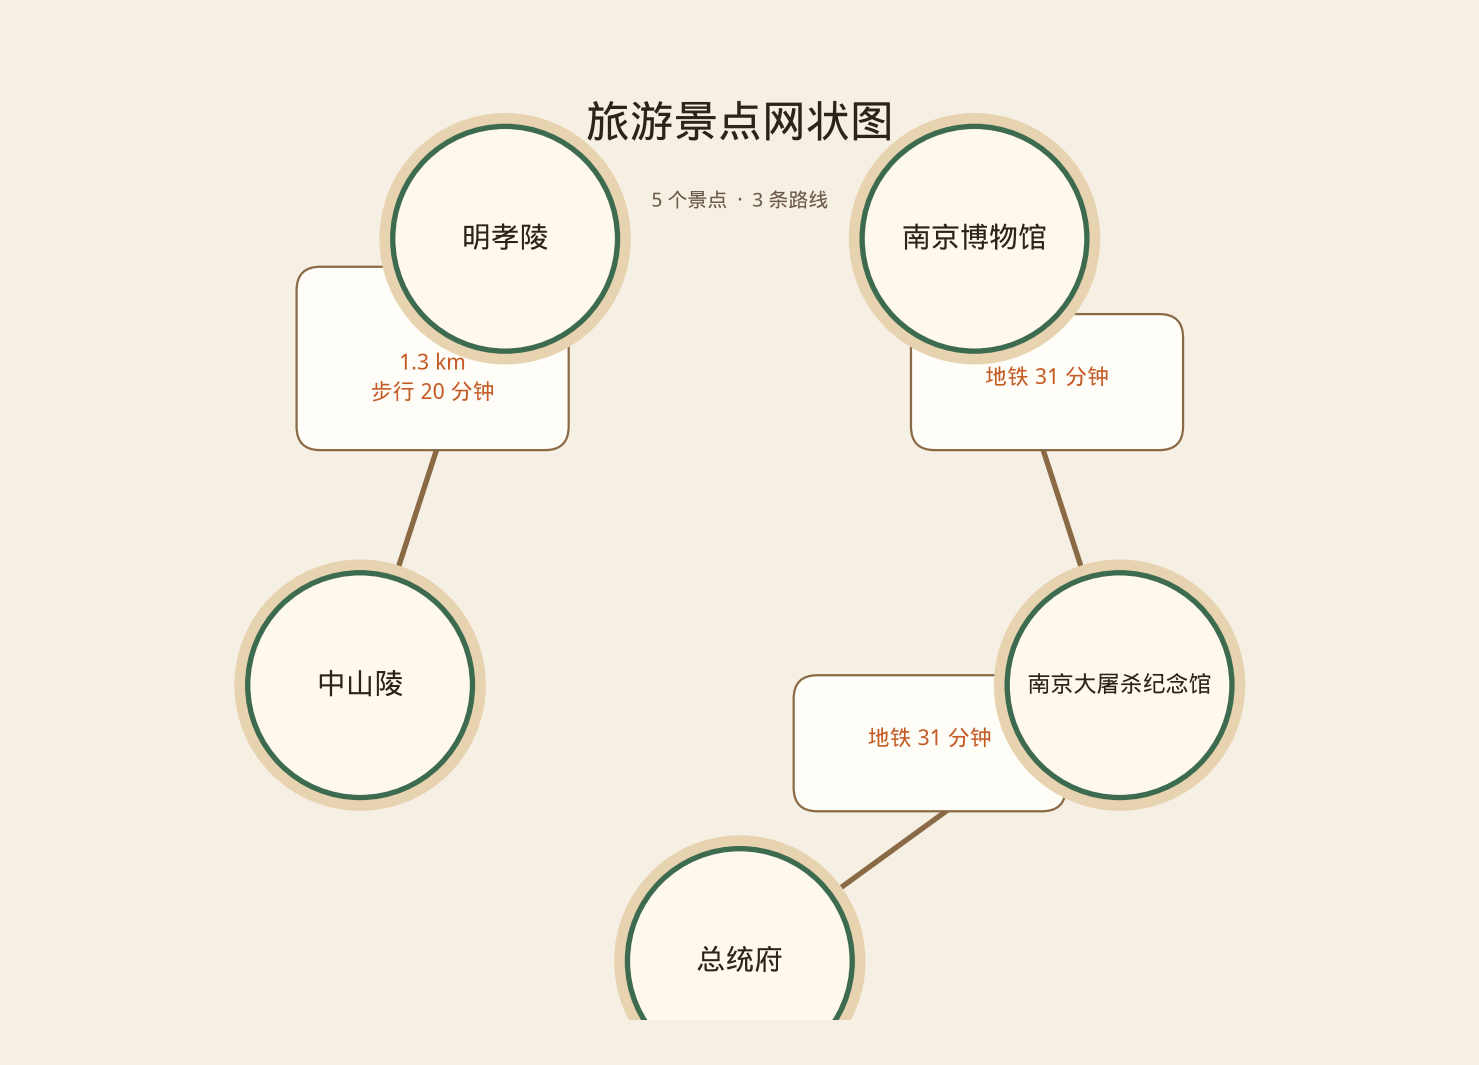
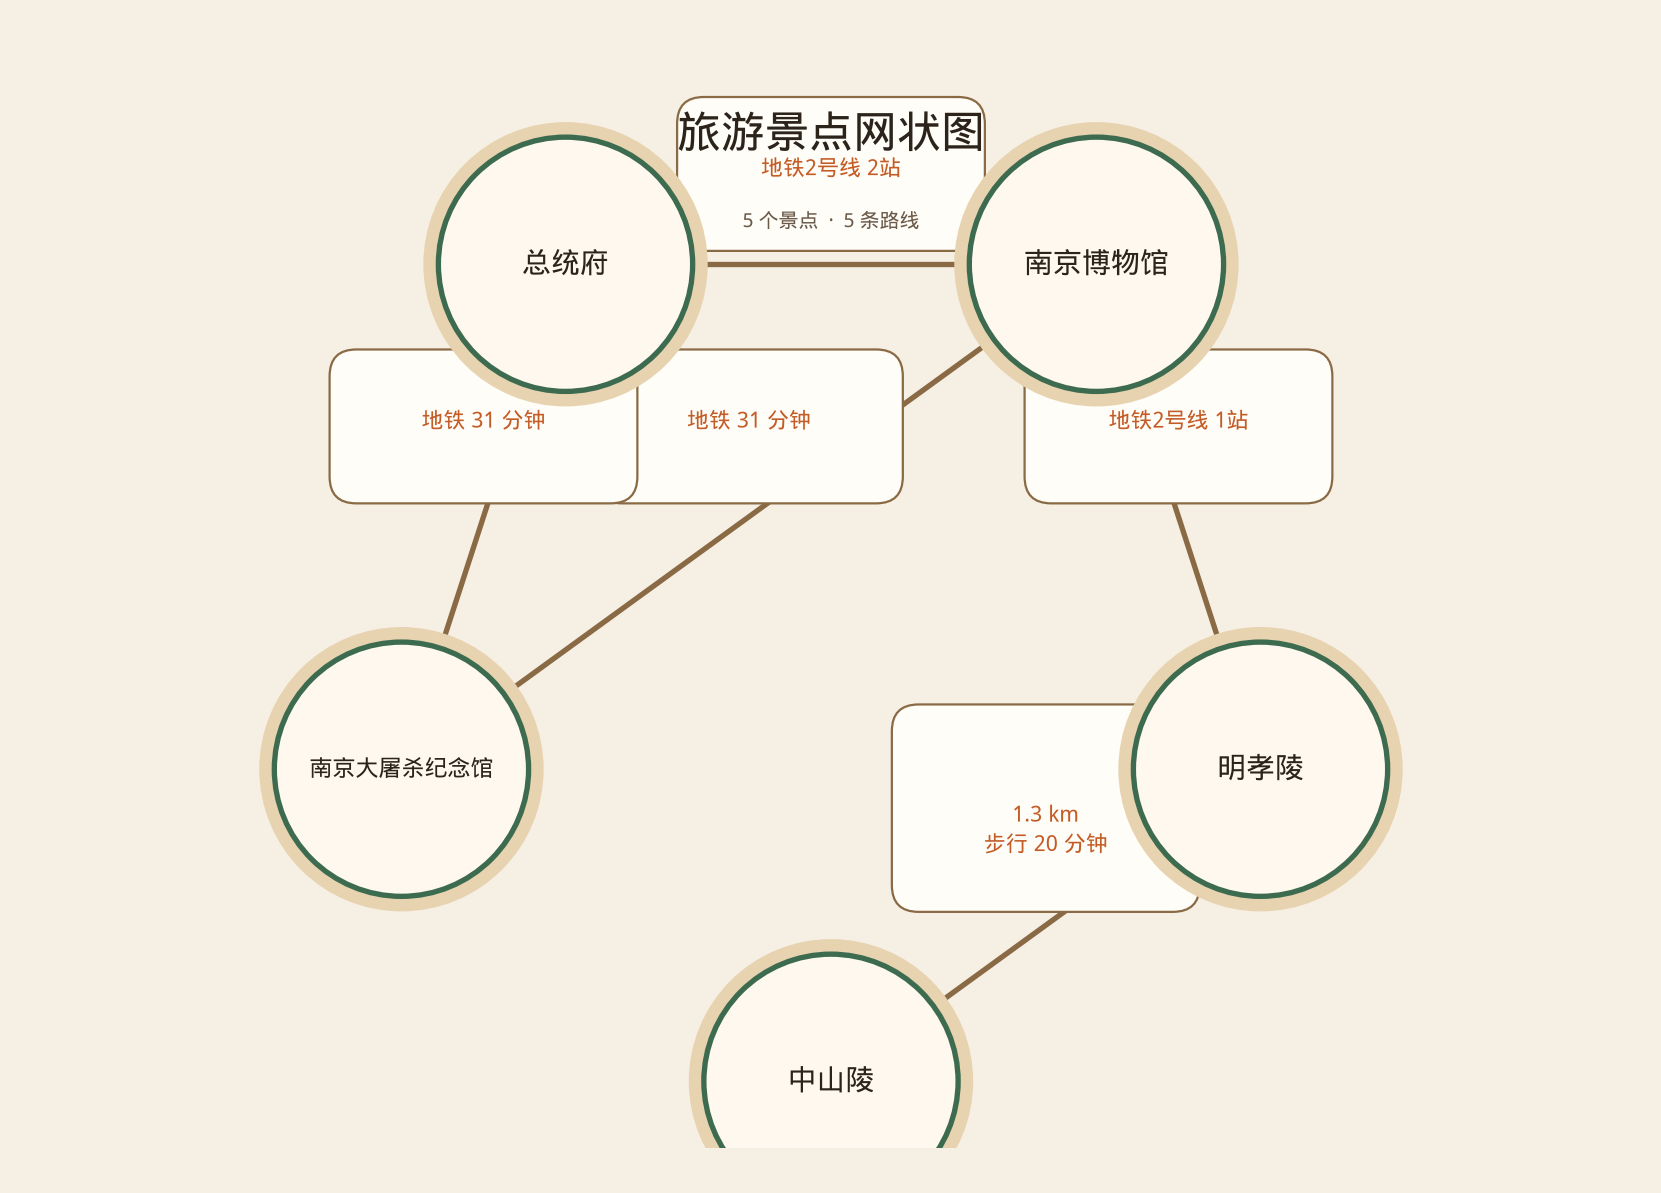
Add metro line 2 edges between Ming tomb and museum chain.
Connect 明孝陵 to 南京博物馆 (1 stop) and 南京博物馆 to 总统府 (2 stops) on 地铁2号线, with edge labels that show line and station count.

diff --git a/attraction_network/index.html b/attraction_network/index.html
@@ -65,11 +65,11 @@
 {
   "title": "旅游景点网状图",
   "nodes": [
-    {"id": "presidential_palace", "name": "总统府", "city": "南京"},
-    {"id": "massacre_memorial", "name": "南京大屠杀纪念馆", "city": "南京"},
-    {"id": "nanjing_museum", "name": "南京博物馆", "city": "南京"},
+    {"id": "zhongshanling", "name": "中山陵", "city": "南京"},
     {"id": "mingxiaoling", "name": "明孝陵", "city": "南京"},
-    {"id": "zhongshanling", "name": "中山陵", "city": "南京"}
+    {"id": "nanjing_museum", "name": "南京博物馆", "city": "南京"},
+    {"id": "presidential_palace", "name": "总统府", "city": "南京"},
+    {"id": "massacre_memorial", "name": "南京大屠杀纪念馆", "city": "南京"}
   ],
   "edges": [
     {
@@ -90,6 +90,20 @@
       "to": "massacre_memorial",
       "minutes": 31,
       "mode": "地铁"
+    },
+    {
+      "from": "mingxiaoling",
+      "to": "nanjing_museum",
+      "mode": "地铁",
+      "metro_line": "2号线",
+      "stations": 1
+    },
+    {
+      "from": "nanjing_museum",
+      "to": "presidential_palace",
+      "mode": "地铁",
+      "metro_line": "2号线",
+      "stations": 2
     }
   ]
 }
@@ -126,8 +140,14 @@
     function edgeLabel(edge) {
       const lines = [];
       if (edge.distance_km != null) lines.push(`${edge.distance_km} km`);
-      const minutes = edge.minutes ?? edge.walk_minutes;
-      lines.push(`${edge.mode} ${minutes} 分钟`);
+      if (edge.metro_line != null) {
+        let text = `${edge.mode}${edge.metro_line}`;
+        if (edge.stations != null) text += ` ${edge.stations}站`;
+        lines.push(text);
+      } else {
+        const minutes = edge.minutes ?? edge.walk_minutes;
+        if (minutes != null) lines.push(`${edge.mode} ${minutes} 分钟`);
+      }
       return lines;
     }
 

diff --git a/attraction_network/render_graph.py b/attraction_network/render_graph.py
@@ -33,8 +33,16 @@ def edge_label(edge: dict) -> str:
     lines: list[str] = []
     if edge.get("distance_km") is not None:
         lines.append(f"{edge['distance_km']} km")
-    minutes = edge.get("minutes", edge.get("walk_minutes"))
-    lines.append(f"{edge['mode']} {minutes} 分钟")
+    mode = edge.get("mode", "")
+    if edge.get("metro_line") is not None:
+        text = f"{mode}{edge['metro_line']}"
+        if edge.get("stations") is not None:
+            text += f" {edge['stations']}站"
+        lines.append(text)
+    else:
+        minutes = edge.get("minutes", edge.get("walk_minutes"))
+        if minutes is not None:
+            lines.append(f"{mode} {minutes} 分钟")
     return "\n".join(lines)
 
 
@@ -70,14 +78,14 @@ def main() -> None:
     edge_font = FontProperties(fname=FONT_PATH, size=10)
     meta_font = FontProperties(fname=FONT_PATH, size=9)
 
-    fig, ax = plt.subplots(figsize=(10.5, 6.4), dpi=160)
+    fig, ax = plt.subplots(figsize=(11.5, 7.2), dpi=160)
     fig.patch.set_facecolor(BG)
     ax.set_facecolor(BG)
     ax.set_aspect("equal")
     ax.axis("off")
 
-    ax.set_xlim(-2.35, 2.35)
-    ax.set_ylim(-1.55, 1.75)
+    ax.set_xlim(-2.55, 2.55)
+    ax.set_ylim(-1.75, 1.85)
 
     ax.text(
         0,
